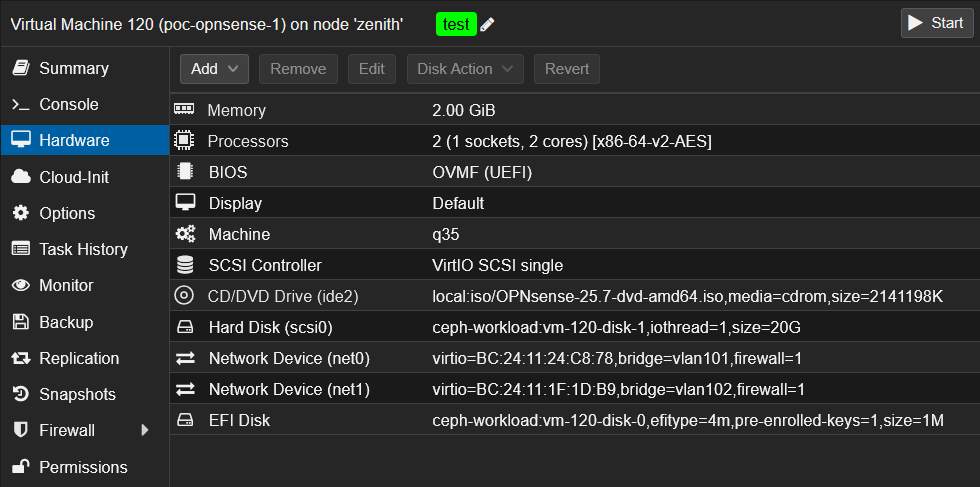
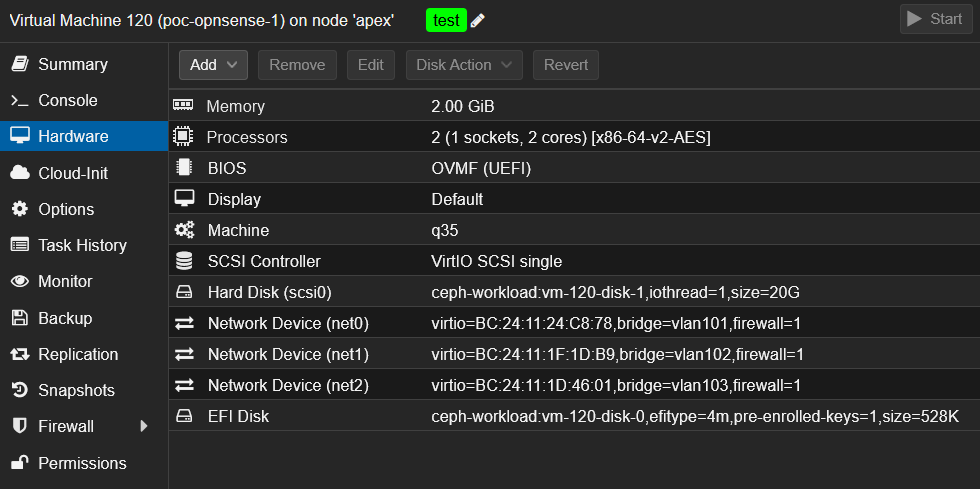
Auto-update blog content from Obsidian: 2025-09-23 20:47:40

diff --git a/content/post/opnsense-virtualizaton-highly-available.md b/content/post/opnsense-virtualizaton-highly-available.md
@@ -57,9 +57,9 @@ Before rushing into a migration, I want to experiment the high availability setu
 ### Add VLANs in my Homelab
 
 For this experiment, I add extra VLANs:
-- 101: POC WAN 
-- 102: POC LAN
-- 103: POC pfSync
+- 101: *POC WAN* 
+- 102: *POC LAN*
+- 103: *POC pfSync*
 
 In the Proxmox UI, I navigate to `Datacenter` > `SDN` > `VNets` and I click `Create`:
 ![Create POC VLANs in the Proxmox SDN](img/proxmox-sdn-create-poc-vlans.png)
@@ -70,11 +70,11 @@ Additionally, I add these 3 VLANs in my UniFi controller, here only a name and t
 
 ### Create Fake ISP Box VM
 
-For this experience, I will simulate my current ISP box by a VM, `fake-freebox`, which will route the traffic between the POC WAN and the POC LAN networks. This VM will serve a DHCP server with only one lease, as my ISP box is doing. I clone my cloud-init template:
+For this experience, I will simulate my current ISP box by a VM, `fake-freebox`, which will route the traffic between the *POC WAN* and the *POC LAN* networks. This VM will serve a DHCP server with only one lease, as my ISP box is doing. I clone my cloud-init template:
 ![proxmox-clone-template-fake-freebox.png](img/proxmox-clone-template-fake-freebox.png)
 
 I add another NIC, then I edit the Netplan configuration to have:
-- `eth0` (POC WAN VLAN 101): static IP address `10.101.0.254/24`
+- `eth0` (*POC WAN* VLAN 101): static IP address `10.101.0.254/24`
 - enp6s19 (Lab VLAN 66): DHCP address given by my current OPNsense router
 ```yaml
 network:
@@ -133,8 +133,8 @@ I create the first VM from that node which I name `poc-opnsense-1`:
 - I select `q35` machine type and `OVMH (UEFI)` BIOS setting, EFI storage on my Ceph pool
 - For the disk, I set the disk size to 20GiB
 - 2 vCPU with 2048 MB of RAM
-- I select the VLAN 101 (POC WAN) for the NIC*
-- Once the VM creation wizard is finished, I add a second NIC in the VLAN 102 (POC LAN)
+- I select the VLAN 101 (*POC WAN*) for the NIC
+- Once the VM creation wizard is finished, I add a second NIC in the VLAN 102 (*POC LAN*) and a third in the VLAN 103 (*POC pfSync*)
 ![proxmox-create-poc-vm-opnsense.png](img/proxmox-create-poc-vm-opnsense.png)
 
 
@@ -166,9 +166,11 @@ Now my WAN interface is getting the IP address 10.101.0.150/24 from my `fake-fre
 
 ### Configure High Availability
 
+Now both of the OPNsense VMs are operational, I want to configure the instances from their WebGUI. To be able to do that, I need to have access from the *POC LAN* VLAN to the OPNsense interfaces in that network. Simple way to do that, connect a WIndows VM in that VLAN and browse to the OPNsense IP address on port 443:
+![opnsense-vm-webgui-from-poc-lan.png](img/opnsense-vm-webgui-from-poc-lan.png)
+
+I start the quick start wizard on both instance to configure the hostname, timezone, DNS server
 
 
 
-![Pasted_image_20250922202056.png](img/Pasted_image_20250922202056.png)
 
-![Pasted_image_20250922202211.png](img/Pasted_image_20250922202211.png)
